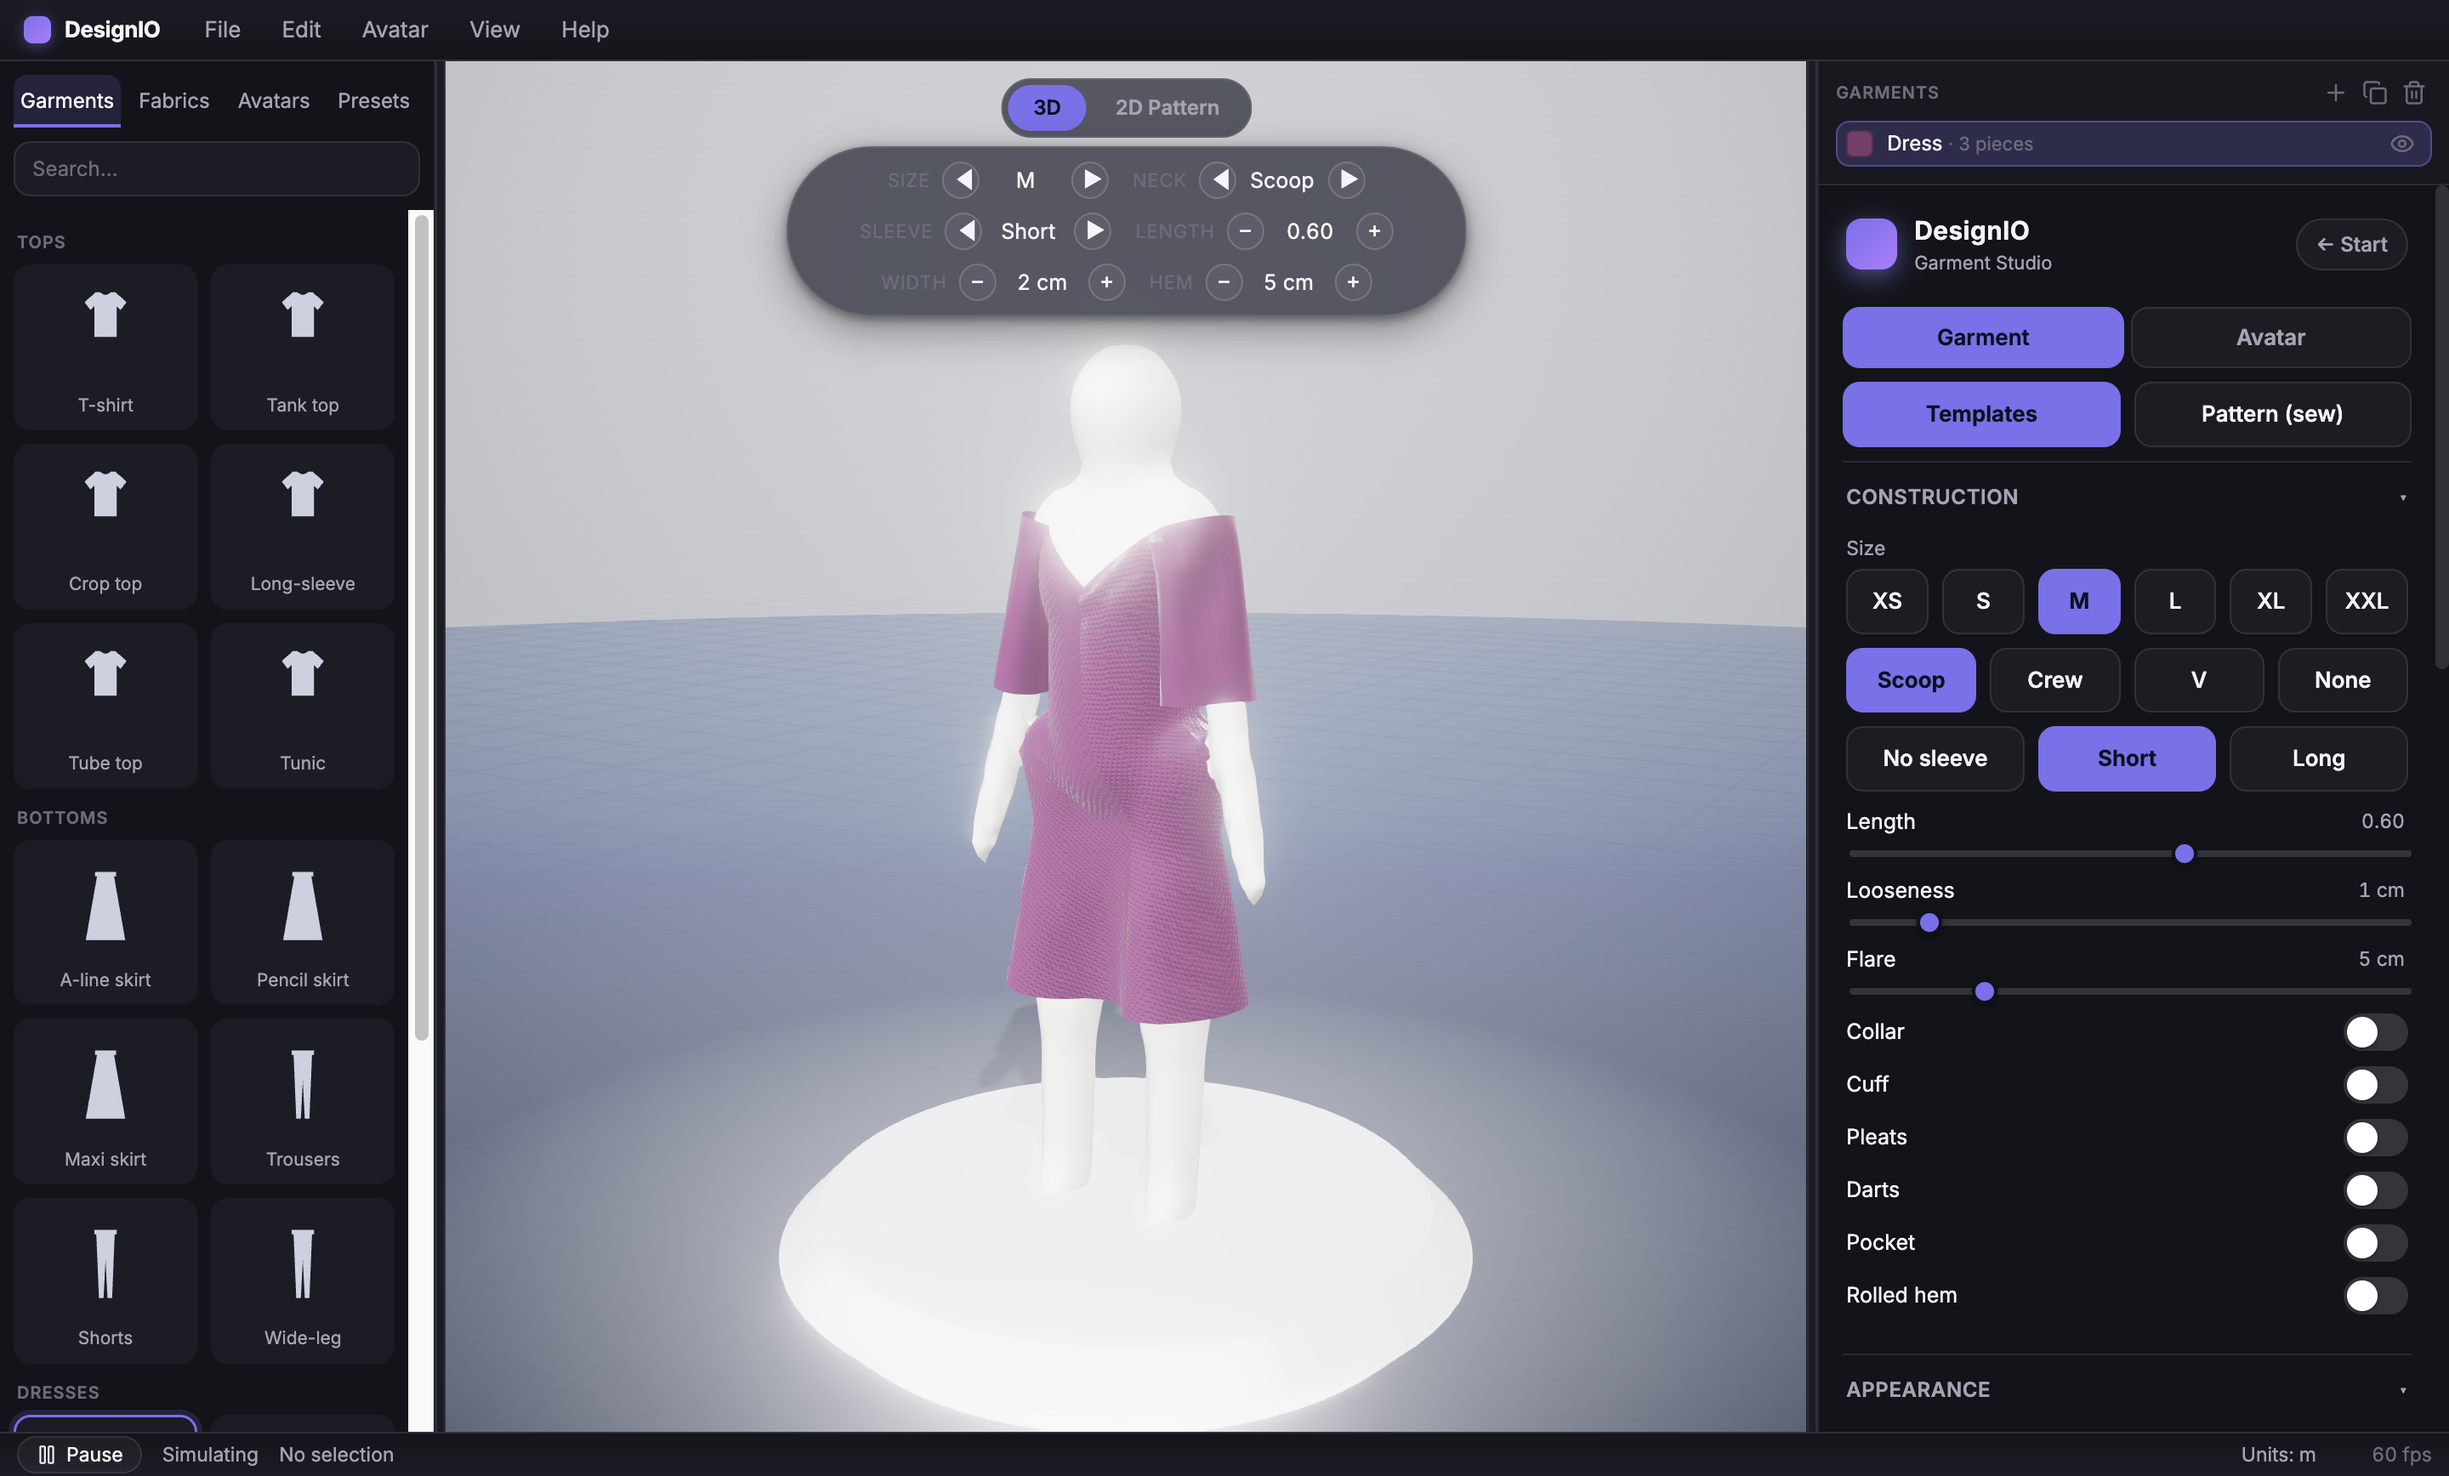
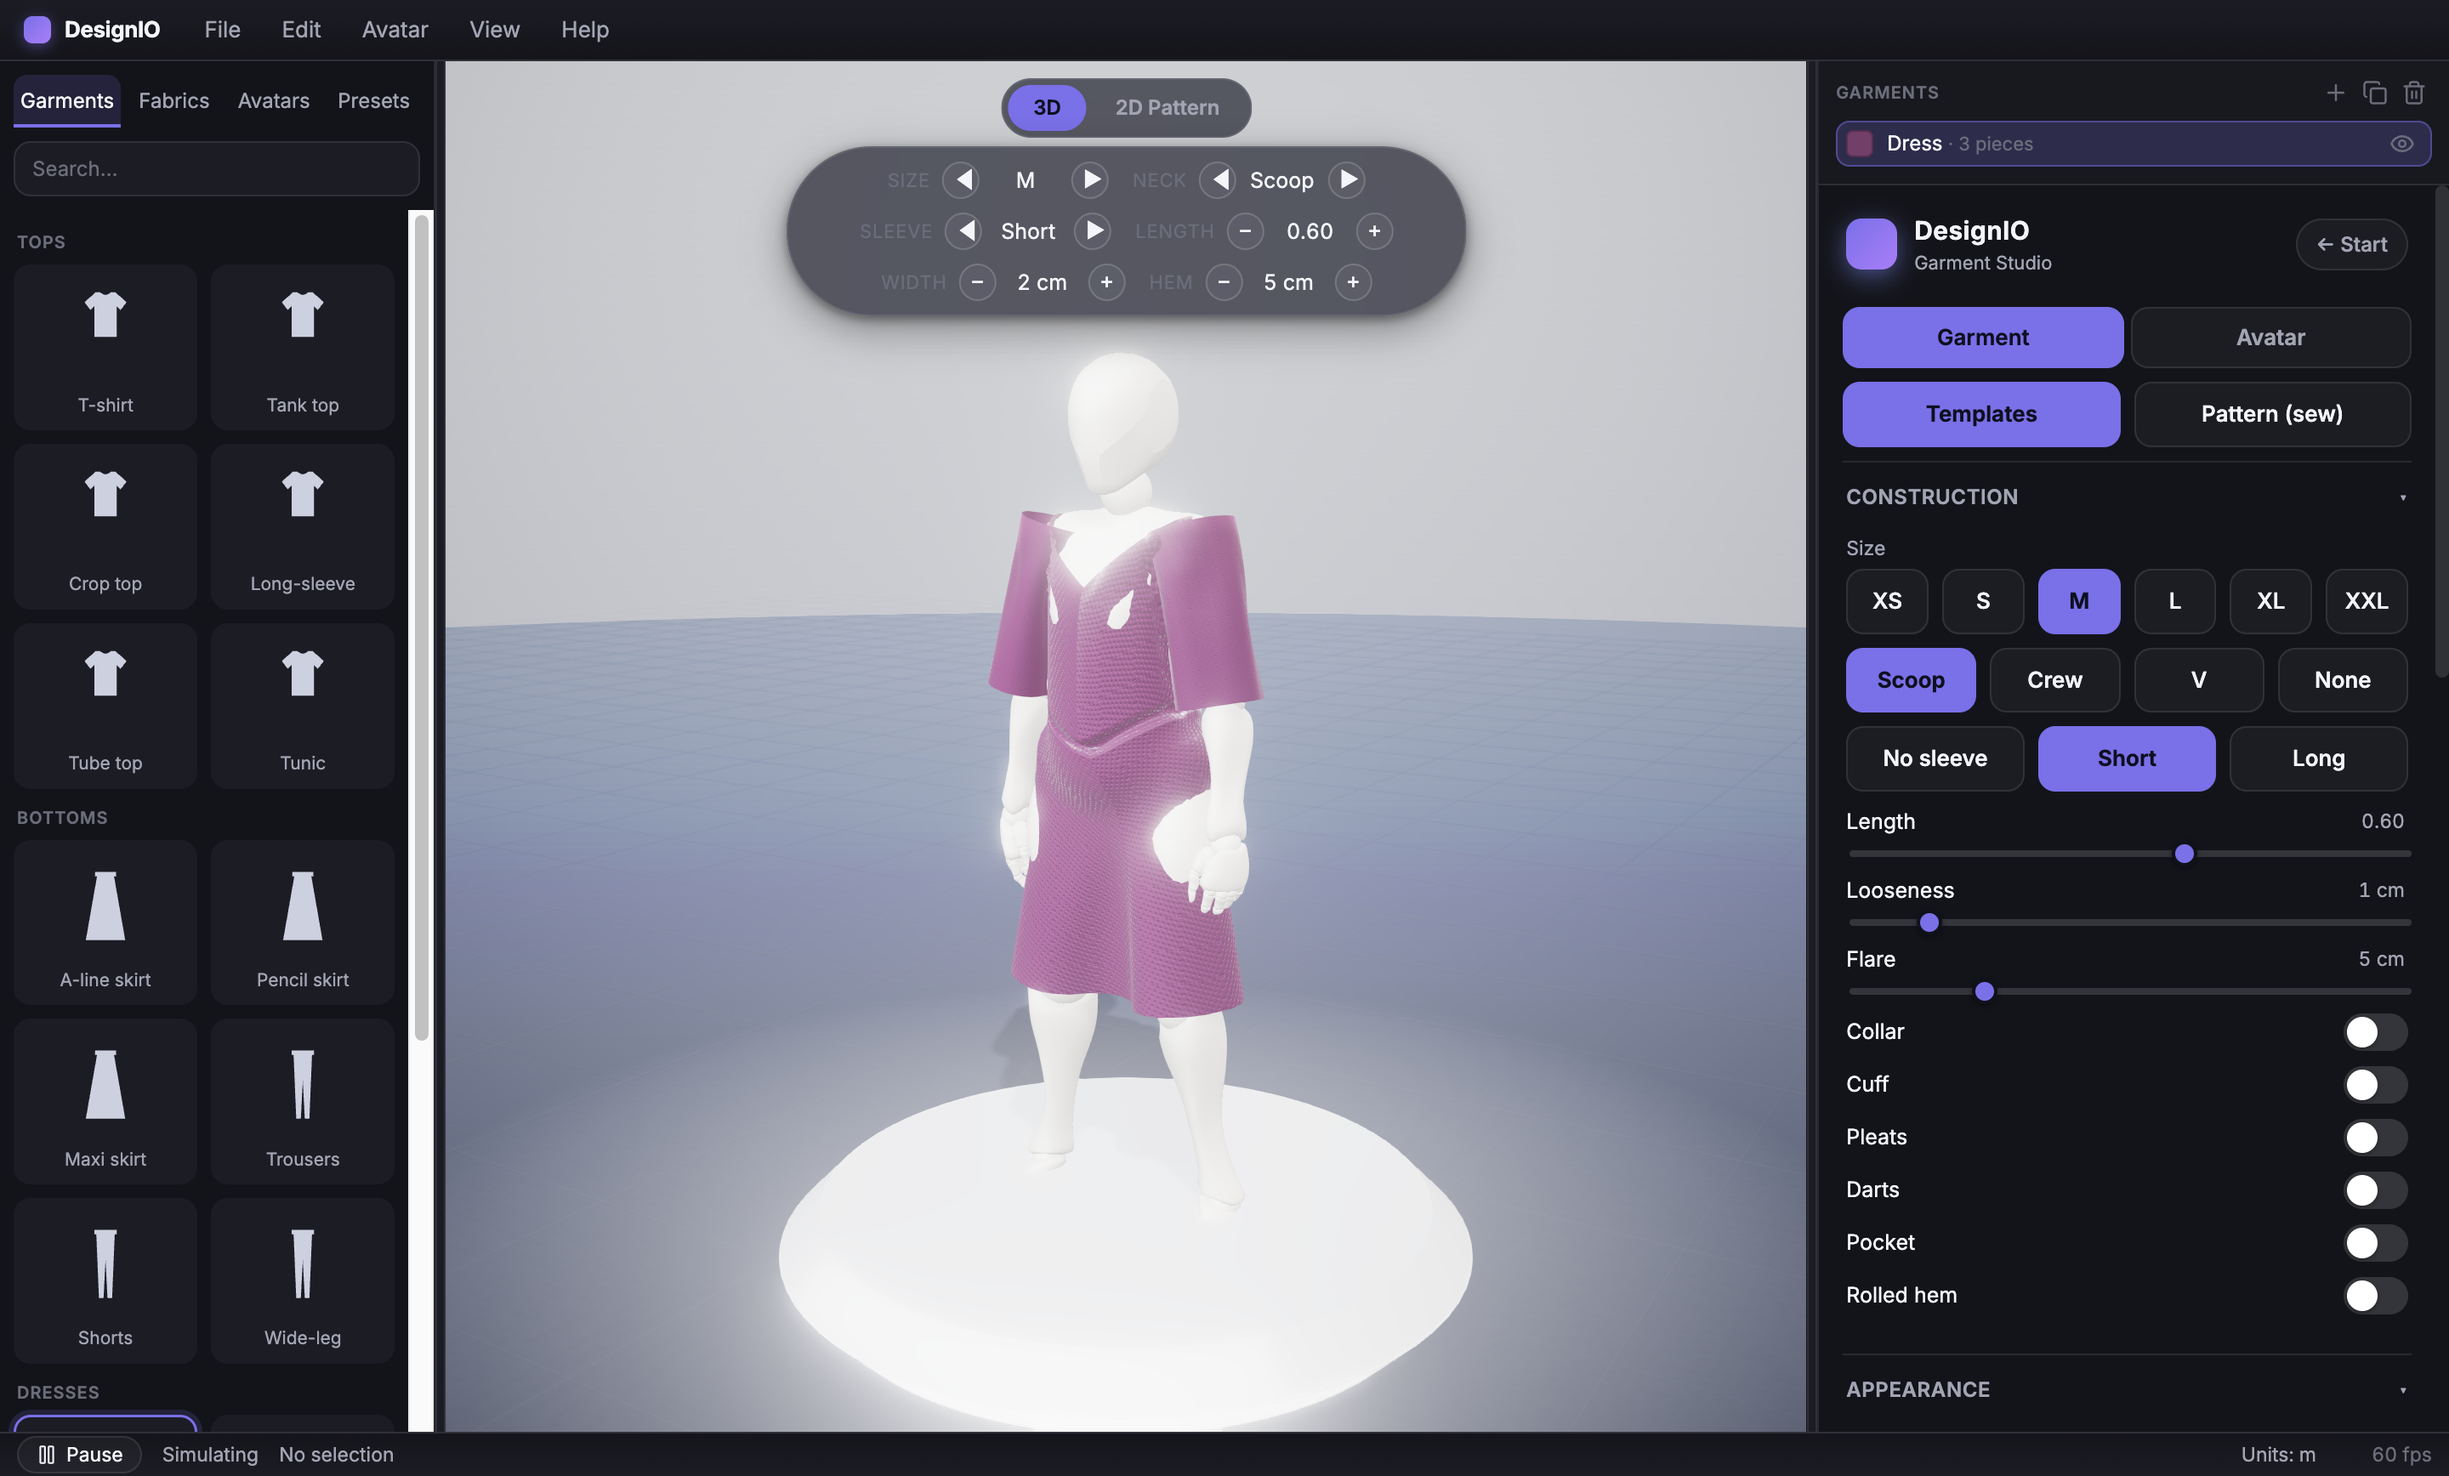
docs: cloth collision — README/KANBAN/CLAUDE + layered-outfit photo
README: drape + layer sections note cloth self/inter-collision, new
docs/outfit.png (layered tee over skirt), refreshed drape hero on the
current build, roadmap → shipped. KANBAN card → Done (#69). CLAUDE.md
documents ClothCollision.

Changed region(s): [[0.375, 0.3111, 0.5312, 0.6221], [0.4062, 0.6532, 0.5, 0.7465]]

diff --git a/README.md b/README.md
@@ -97,10 +97,12 @@ the capsule skeleton stays the cloth collider, so garments drape correctly.
 | --- | --- | --- |
 | ![Slim female model mannequin](docs/model-female.png) | ![Slim male model mannequin](docs/model-male.png) | ![The default imported GLB avatar wearing a silk dress](docs/body-glb.png) |
 
-### Real 3D drape with mesh-accurate collision
+### Real 3D drape with mesh-accurate + cloth-cloth collision
 Each garment **simulates** with an **XPBD** cloth solver and collides against the **true body surface**
 (a BVH over the mannequin mesh) plus skeleton capsules — so it hugs the real silhouette, sleeves sit on
-the arms, and skirts flare naturally. Cloth normals are recomputed every frame for smooth shading.
+the arms, and skirts flare naturally. Cloth also collides with **itself and other garments** (a global
+spatial-hash pass), so a flared skirt doesn't pass through itself and a **layered outfit pushes off**
+rather than interpenetrating. Cloth normals are recomputed every frame for smooth shading.
 
 ![A satin dress draping on the body with a full flared skirt](docs/bvh-dress.png)
 
@@ -141,10 +143,13 @@ them onto the body.)
 
 ### Layer many garments · save & reopen your project
 Dress the mannequin in a **whole outfit** — add as many garments as you like (a top *and* a skirt *and* a
-jacket…), each with its own fabric, colour and print, all simulating together on one body. The **Object
-Browser** lists every garment: **select** one to edit it, toggle its **visibility**, and **add / duplicate
-/ delete** from the toolbar. Full **cut / copy / paste** (⌘X/C/V), **duplicate** (⌘D) and **undo / redo**
-(⌘Z / ⇧⌘Z). When you're happy, **Save project** — it's kept in your in-app **Projects** library.
+jacket…), each with its own fabric, colour and print, all simulating together on one body, and **colliding
+with each other** so the layers sit apart instead of interpenetrating. The **Object Browser** lists every
+garment: **select** one to edit it, toggle its **visibility**, and **add / duplicate / delete** from the
+toolbar. Full **cut / copy / paste** (⌘X/C/V), **duplicate** (⌘D) and **undo / redo** (⌘Z / ⇧⌘Z). When
+you're happy, **Save project** — it's kept in your in-app **Projects** library.
+
+![A layered outfit — a denim tee over an A-line skirt, each its own garment, sitting apart](docs/outfit.png)
 
 ### Your projects — a real library
 Every design you save shows up on a **Projects** page (with a thumbnail) — reopen any of them in one click,
@@ -269,11 +274,11 @@ mesh-accurate BVH body collision · **per-part physics** (leather drapes stiffer
 fabric** (front vs back on body + legs) · **prints on any panel** · **imported GLB avatar as the default
 body** · **body-pinned garments** — the avatar **walks in place with its clothes on** (GLB idle/walk clips +
 bone-driven collider fit + garments pinned to the shoulders/hips) · **4D per-fabric secondary motion**
-(chiffon floats/flutters, denim near-rigid) · a production-grade, consistent UI.
+(chiffon floats/flutters, denim near-rigid) · **cloth self / inter-collision** (garments push off each
+other + themselves) · a production-grade, consistent UI.
 
-Planned (in phases): cloth **self-collision
-+ thickness** · **layering / full outfits** (garment↔garment collision) · **tailored outerwear** (lapels,
-structured coats) · export polish.
+Planned (in phases): **fabric thickness** (garments are two-sided; give edges a shell) · **tailored
+outerwear** (lapels, structured coats) · more garments · export polish.
 
 ---
 

diff --git a/KANBAN.md b/KANBAN.md
@@ -42,6 +42,7 @@ Legend: ✅ done · 🔄 in progress · 📋 backlog
 - [x] **Body-pinned garments** — the avatar **walks in place with its clothes on**: GLB idle/walk clips + bone-driven collider fit + garments pinned to the shoulders/hips — PR #61
 - [x] **Sleeves hug the arm** — a long sleeve pins at the shoulder + elbow so it bends with the arm during the walk — PR #63
 - [x] **4D per-fabric secondary motion** — aerodynamic drag: chiffon billows/floats/lags, denim near-rigid — PR #65
+- [x] **Cloth self / inter-collision** — garments push off each other + don't pass through themselves (spatial-hash particle repulsion) — PR #69
 
 **Editing UX**
 - [x] **Universal 2D↔3D editing** — the 2D pane drives the same garment — PR #44
@@ -66,7 +67,6 @@ Legend: ✅ done · 🔄 in progress · 📋 backlog
 **Features**
 - [ ] **Drop in a real photoreal skin** — the GLB slot is now the default + renders own materials; add a CC0 photoreal human `.glb` at `assets/mannequin.glb` (current is a clean rigged mannequin)
 - [ ] **More garments** — blazer · hoodie · cargo pants · coat · blouse (data-driven)
-- [ ] **Cloth self / inter-collision** — layered garments push off each other
 - [ ] **Topstitching + seam styles** on the 3D + pattern
 - [ ] **A real Render tab** (high-quality still)
 - [ ] **Prints on sleeves & legs** — prints are body-only today; extend the design map to the sleeve/leg pieces (and their back panels)

diff --git a/CLAUDE.md b/CLAUDE.md
@@ -50,7 +50,10 @@ Renderer modules:
 - `cloth/` — `XPBDSolver` (grid/tube cloth; pinned particles can **follow a moving body anchor** —
   `bindPins`/`setAnchor` — so garments stay on the animated avatar; per-fabric **aerodynamic drag** —
   `FabricParams.aero` removes the broadside/normal velocity so light+sheer fabrics billow/float/lag and
-  heavy ones follow near-rigid — **4D secondary motion**), `ClothWorld` (general particle+constraint solver
+  heavy ones follow near-rigid — **4D secondary motion**), `ClothCollision` (a global **spatial-hash
+  particle repulsion** run by `GarmentStack.step` after the solvers — keeps every visible garment particle
+  a thickness apart, skipping same-piece grid-adjacent pairs, so layered garments push off each other +
+  a garment doesn't pass through itself), `ClothWorld` (general particle+constraint solver
   for sewn panels; seams are stitch constraints), `Garment` (tube builder; `topEdge`/`radiusAt` shaping
   reused by the 2D pattern), `ClothMesh`, `FabricMaterial`, `fabricPresets` (`FabricParams`). Both
   solvers **sleep** (dead-stop) when windless + still, so at default settings garments hang perfectly
